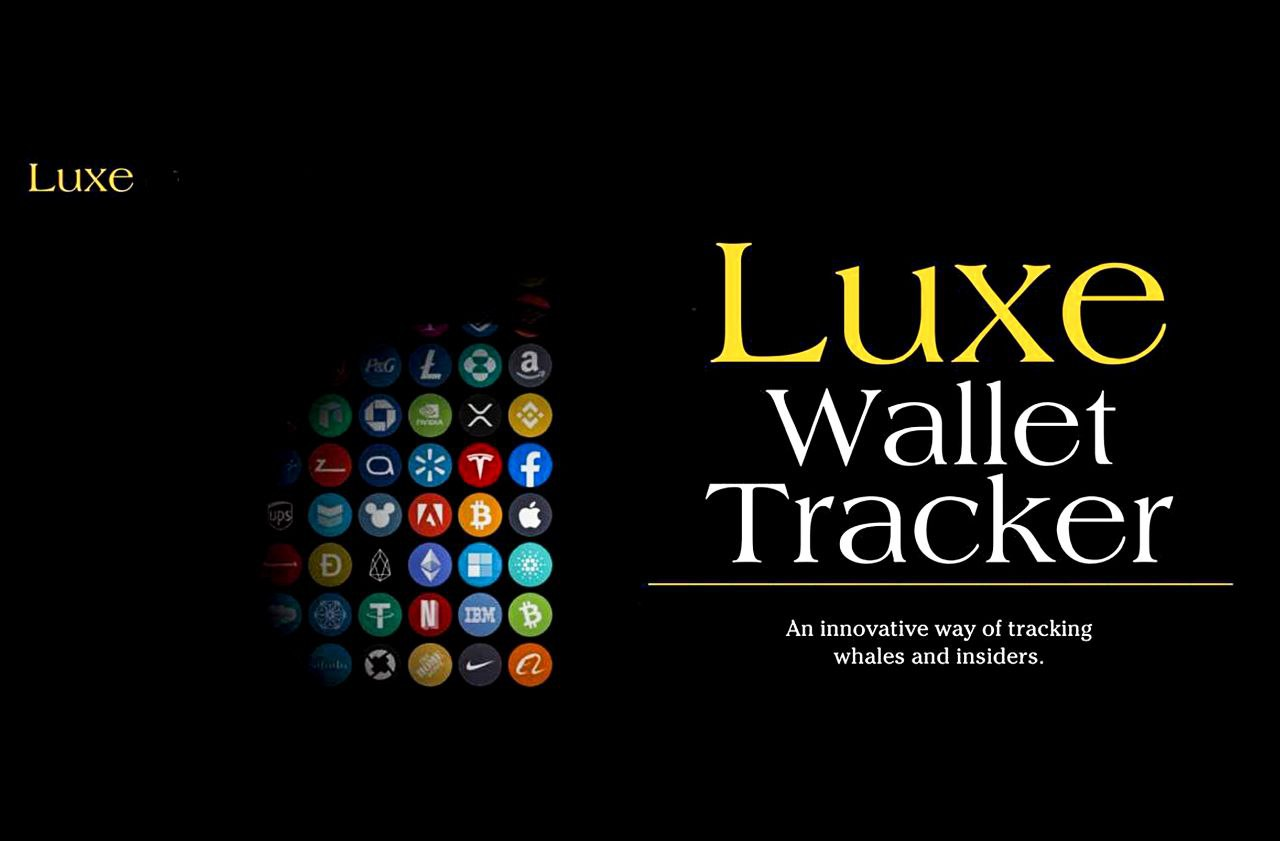
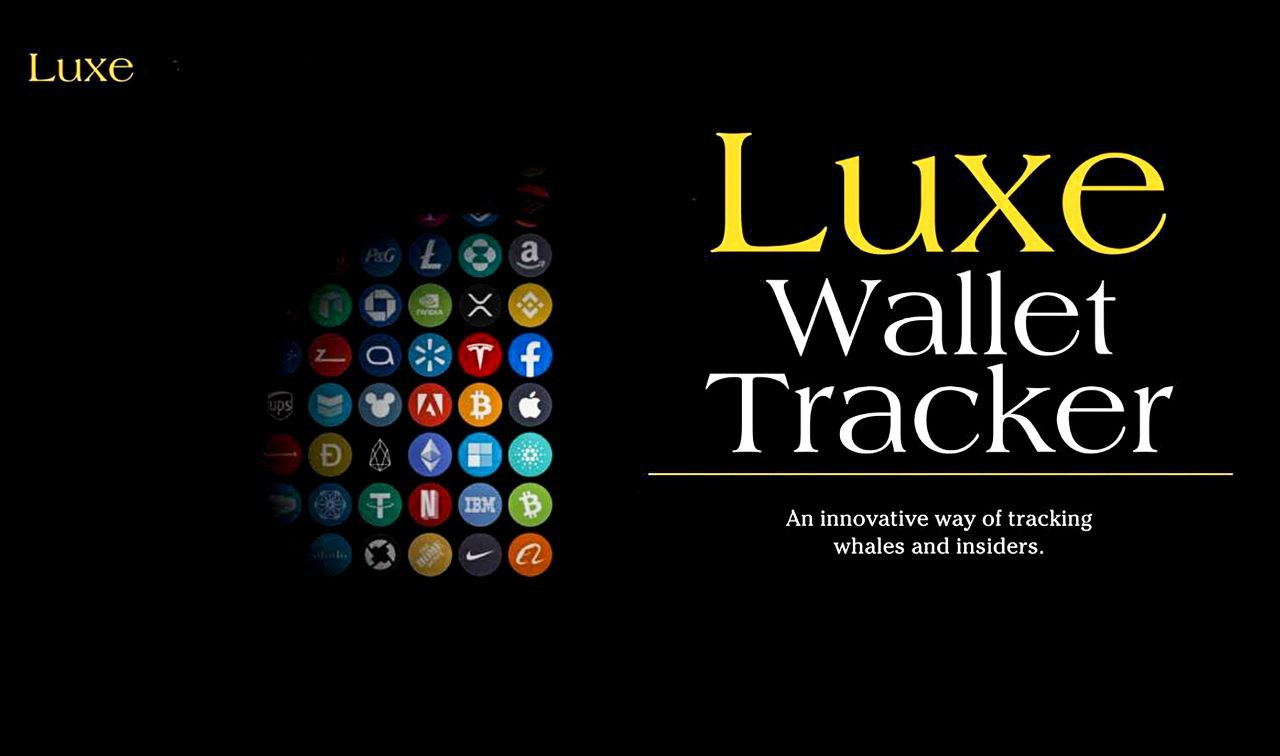
up

diff --git a/src/App.jsx b/src/App.jsx
@@ -7,7 +7,7 @@ import release from "./assets/release.jpg";
 
 const App = () => {
   return (
-    <section className="min-h-screen bg-black font-serif py-[50px]">
+    <section className="min-h-screen bg-black font-serif pt-[20px] pb-[50px]">
       <div className="container flex flex-col gap-10 justify-center items-center">
         <a href="">
           <img src={Hero} alt="" loading="lazy" />
